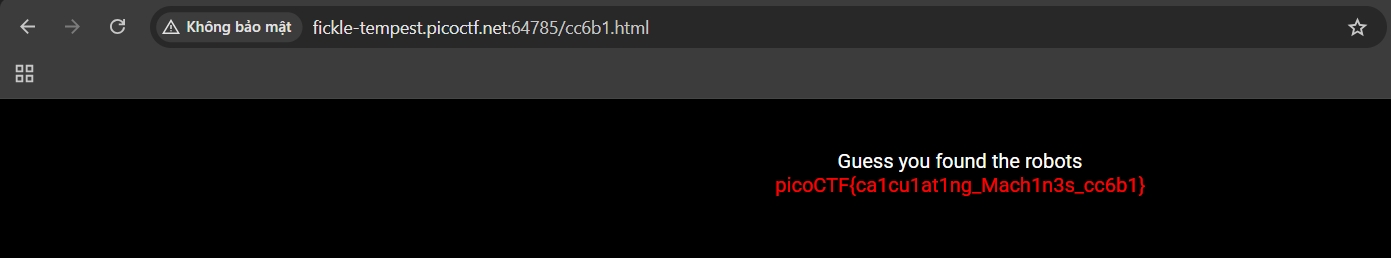
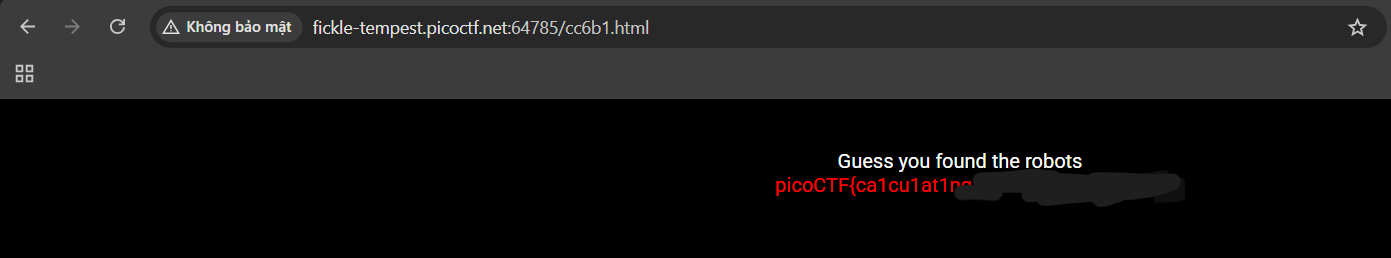
update file lỗi

Changed region(s): [[0.6801, 0.6512, 0.8656, 0.8062]]

diff --git a/Reverse Engineering/asm2/README.md b/Reverse Engineering/asm2/README.md
@@ -1,43 +1,62 @@
 ### Bài toán
 - Description
-    - What does asm1(0x2ff) return? Submit the flag as a hexadecimal value (starting with '0x'). NOTE: Your submission for this question will NOT be in the normal flag format. Source
+    - What integer does this program print?
+Flag format: picoCTF{XXXXXXXX} -> (hex, lowercase, no 0x, and 32 bits. ex. 5614267 would be picoCTF{0055aabb})
+Use arguments a and b: 2593949075 and 2233560849
+File: chall.S
 
 ### Giải
-- Code:
+- Cách 1: phân tích
+    - Trong ARM64, khi gọi hàm main(argc, argv), các tham số từ dòng lệnh sẽ được xử lý:
+        - Đoạn code lấy argv[1] (đối số thứ nhất) truyền vào atoi để chuyển thành số nguyên, lưu vào w19.
+        - Tiếp theo lấy argv[2] (đối số thứ hai) truyền vào atoi, kết quả trả về nằm ở w0.
+        - Sau đó, nó chuẩn bị gọi hàm func1:
+            - mov w1, w0: Gán giá trị b vào thanh ghi w1.
+            - mov w0, w19: Gán giá trị a vào thanh ghi w0.
+            - bl func1: Gọi hàm func1(a, b).
+    - Phân tích hàm func1:
+    ```
+    func1:
+        sub     sp, sp, #16     // Tạo không gian stack
+        str     w0, [sp, 12]    // Lưu a (2593949075) vào stack
+        str     w1, [sp, 8]     // Lưu b (2233560849) vào stack
+        
+        ldr     w1, [sp, 12]    // Load lại a vào w1
+        ldr     w0, [sp, 8]     // Load lại b vào w0
+        
+        cmp     w1, w0          // So sánh a và b (2593949075 và 2233560849)
+        bls     .L2             // Nếu a <= b (Branch if Lower or Same), nhảy đến .L2
+        
+        ldr     w0, [sp, 12]    // Nếu a > b: Load a vào w0 để trả về
+        b       .L3             // Nhảy đến kết thúc
+        
+    .L2:
+        ldr     w0, [sp, 8]     // Nếu a <= b: Load b vào w0 để trả về
+        
+    .L3:
+        add     sp, sp, 16      // Dọn dẹp stack
+        ret                     // Trả về giá trị trong w0
+    ```
+    - Kết luận logic của hàm: Hàm này đơn giản là so sánh hai số và trả về số lớn hơn => func1 trả về 2593949075 chuyển sang hex (no 0x) thành 9a9c8593 => FLAG
+- Cách 2: chạy chương trình = qemu
 ```
-asm1:
-        <+0>:   endbr32 
-        <+4>:   push   ebp
-        <+5>:   mov    ebp,esp
-        <+7>:   cmp    DWORD PTR [ebp+0x8],0x753
-        <+14>:  jg     0x11d6 <asm1+41>
-        <+16>:  cmp    DWORD PTR [ebp+0x8],0x5af
-        <+23>:  jne    0x11ce <asm1+33>
-        <+25>:  mov    eax,DWORD PTR [ebp+0x8]
-        <+28>:  add    eax,0x7
-        <+31>:  jmp    0x11ed <asm1+64>
-        <+33>:  mov    eax,DWORD PTR [ebp+0x8]
-        <+36>:  sub    eax,0x7
-        <+39>:  jmp    0x11ed <asm1+64>
-        <+41>:  cmp    DWORD PTR [ebp+0x8],0x907
-        <+48>:  jne    0x11e7 <asm1+58>
-        <+50>:  mov    eax,DWORD PTR [ebp+0x8]
-        <+53>:  sub    eax,0x7
-        <+56>:  jmp    0x11ed <asm1+64>
-        <+58>:  mov    eax,DWORD PTR [ebp+0x8]
-        <+61>:  add    eax,0x7
-        <+64>:  pop    ebp
-        <+65>:  ret    
+┌──(kali㉿kali)-[/mnt/hgfs/picoCTF-writeups/Reverse Engineering/ARMssembly 0]
+└─$ # 1. Biên dịch lại với cờ -static
+aarch64-linux-gnu-gcc chall.S -o chall_run -static
+
+# 2. Chạy lại bằng QEMU
+qemu-aarch64 ./chall_run 2593949075 2233560849
+Result: 2593949075
+                                                                                           
+                                                                                                                                                                                    
+┌──(kali㉿kali)-[/mnt/hgfs/picoCTF-writeups/Reverse Engineering/ARMssembly 0]
+└─$ python3 -c "print(f'{2593949075:08x}')"
+9a9c8593
+
 ```
-- Trong x86 32-bit, tham số đầu tiên truyền vào hàm nằm ở vị trí [ebp+0x8] => [ebp+0x8] = 0x2ff
-- So sánh lần 1 ở <+7>, <+14>:
-    - So sánh 0x2ff và 0x753 do 0x2ff < 0x753 nên không nhảy (jg - (Jump if Greater - Nhảy nếu lớn hơn))
-    - Đi tiếp xuống <+16>
-- So sánh lần 2 ở <+16> và <+23>:
-    - So sánh 0x2ff với 0x5af do 0x2ff != 0x5af điều kiện jne (Jump if Not Equal - Nhảy nếu không bằng) thỏa mãn.
-    - Nhảy tới <+33>
-- Thực hiện phép toán tại <+33>
-    - Đưa giá trị 0x2ff vào thanh ghi eax.
-    - Thực hiện: eax = eax - 0x7.
-    - Tính toán: 0x2ff - 0x7 = 0x2f8.
-    - Kết quả: Nhảy tới <+64> để kết thúc hàm.
+### Note
+- QEMU (viết tắt của Quick Emulator) là một phần mềm mô phỏng và ảo hóa mã nguồn mở cực kỳ mạnh mẽ. Nó cho phép tôi chạy một hệ điều hành hoặc một chương trình được thiết kế cho kiến trúc máy tính này (ví dụ: ARM) ngay trên một máy tính có kiến trúc khác (ví dụ: x86/Intel của tôi).
+- Hỗ trợ:
+    - Phân tích mã độc (Malware Analysis): tôi có thể chạy các mẫu virus dành cho các thiết bị IoT (thường dùng chip ARM hoặc MIPS) trong một môi trường bị cô lập hoàn toàn để xem nó làm gì.
+    - Reverse Engineering: Như bài tập tôi vừa làm, QEMU giúp thực thi các file binary của router, camera, hoặc thiết bị nhúng ngay trên laptop của mình để debug.
+    - Hỗ trợ Debug cực tốt: QEMU có tích hợp sẵn GDB server. tôi có thể dùng GDB trên máy thật để "step through" (chạy từng dòng) mã nguồn của một chương trình ARM đang chạy bên trong QEMU.

diff --git a/Cryptography/basic-mod2/basic-mod2.md b/Cryptography/basic-mod2/basic-mod2.md
@@ -1,0 +1,48 @@
+### Bài toán
+- Description
+    - A new modular challenge!
+Download the message here.
+Take each number mod 41 and find the modular inverse for the result. Then map to the following character set: 1-26 are the alphabet, 27-36 are the decimal digits, and 37 is an underscore.
+Wrap your decrypted message in the picoCTF flag format (i.e. picoCTF{decrypted_message})
+
+### Giải
+- B1: Tính x = n (mod 41)
+- B2: tìm inv = x^-1 (mod 41) (sử dụng hàm pow trong python)
+- Ánh xạ: 1...26 -> A...Z ; 27...36->0...9 ; 37->_(underscore)
+- python:
+```
+def map_char(n):
+    if 1 <= n <= 26:
+        return chr(ord('A') + n - 1)
+    elif 27 <= n <= 36:
+        return chr(ord('0') + n - 27)
+    elif n == 37:
+        return '_'
+    return '?'
+
+# Đọc dữ liệu trực tiếp từ file message.txt
+try:
+    with open('message.txt', 'r') as f:
+        # Tách các số dựa trên khoảng trắng và chuyển sang kiểu int
+        numbers = [int(x) for x in f.read().split()]
+    
+    decrypted = ""
+    for num in numbers:
+        # Bước 1: Mod 41
+        x = num % 41
+        
+        # Bước 2: Tìm nghịch đảo modulo 41
+        # Sử dụng pow(x, -1, 41) - cực kỳ nhanh và chuẩn
+        try:
+            inv = pow(x, -1, 41)
+            # Bước 3: Ánh xạ sang ký tự
+            decrypted += map_char(inv)
+        except ValueError:
+            # Nếu x không có nghịch đảo (ví dụ x=0)
+            decrypted += '?'
+
+    print(f"picoCTF{{{decrypted}}}")
+
+except FileNotFoundError:
+    print("Lỗi: Không tìm thấy file message.txt trong thư mục này!")
+```

diff --git a/Forensics/Wireshark doo dooo do doo/README.md b/Forensics/Wireshark doo dooo do doo/README.md
@@ -1,11 +1,14 @@
-### Bài toán
+# Bài toán
 - Description
-    - A new modular challenge!
-Download the message here.
-Take each number mod 41 and find the modular inverse for the result. Then map to the following character set: 1-26 are the alphabet, 27-36 are the decimal digits, and 37 is an underscore.
-Wrap your decrypted message in the picoCTF flag format (i.e. picoCTF{decrypted_message})
+    - Can you find the flag?
+shark1.pcapng
 
-### Giải
-- 
-### Note
-- 
+# Giải
+- Dùng bộ lọc tcp.stream eq -> lọc sơ từng stream nhìn nhanh thì thấy stream 5 có chứa phản hồi HTTP 200 OK 
+- Chuột phải vào bất kỳ gói tin nào hiện ra sau khi lọc -> Chọn Follow -> TCP Stream -> một cửa sổ mới sẽ hiện ra hiển thị toàn bộ nội dung trao đổi giữa Client và Server.
+- Thấy Gur synt vf cvpbPGS{c33xno00_1_f33_h_qrnqorrs}
+- Chuỗi trên sử dụng mã hóa ROT13 -> decode => FLAG
+# Note
+- Tìm stream chứa phản hồi HTTP 200 OK
+- Dấu hiệu nhận biết ROT13: Khi thấy cụm cvpbPGS, hãy nhớ ngay nó là picoCTF. Chữ c cách p 13 vị trí, v cách i 13 vị trí... Đây là "mẹo" để nhận diện nhanh loại mã hóa này.
+- Có thể dùng lệnh strings shark1.pcapng | grep "cvpbPGS" để tìm nhanh chuỗi mã hóa mà không cần mở giao diện đồ họa.

diff --git a/Cryptography/Mod 26/Mod 26.md b/Cryptography/Mod 26/Mod 26.md
@@ -1,0 +1,18 @@
+### Bài toán
+- Description
+    - Cryptography can be easy, do you know what ROT13 is?
+        values.txt
+
+### Giải
+- Vì bài này dùng ROT13, mỗi chữ cái được dịch đi 13 vị trí. Chúng ta sẽ dùng lệnh tr (translate) để dịch ngược lại: 
+```
+cat values.txt | tr 'A-Za-z' 'N-ZA-Mn-za-m'
+```
+- Với:
+    - A-Z trở thành N-ZA-M: Chữ A (vị trí 1) dịch 13 thành N (vị trí 14), và cứ thế xoay vòng.
+    - a-z trở thành n-za-m: Tương tự cho chữ thường.
+### Note
+- ROT13 (viết tắt của "rotate by 13 places"). Đây là một dạng đặc biệt của mật mã Caesar:
+    - Bảng chữ cái tiếng Anh có 26 chữ cái.
+    - ROT13 sẽ dịch chuyển mỗi chữ cái đi 13 vị trí.
+    - Vì 13=26/2, nên nếu bạn thực hiện ROT13 hai lần trên cùng một văn bản, bạn sẽ nhận lại văn bản gốc ban đầu (13+13=26 = 0 (mod 26))

diff --git a/Reverse Engineering/unpackme.py/README.md b/Reverse Engineering/unpackme.py/README.md
@@ -1,11 +1,15 @@
 ### Bài toán
 - Description
-    - A new modular challenge!
-Download the message here.
-Take each number mod 41 and find the modular inverse for the result. Then map to the following character set: 1-26 are the alphabet, 27-36 are the decimal digits, and 37 is an underscore.
-Wrap your decrypted message in the picoCTF flag format (i.e. picoCTF{decrypted_message})
+    - Can you get the flag?
+Reverse engineer this Python program.
 
 ### Giải
-- 
+- Phân tích mã nguồn:
+    - Cơ chế: Chương trình sử dụng một khóa tĩnh (key_str) để giải mã một đoạn dữ liệu (payload) đã được mã hóa bằng Fernet. Sau khi giải mã thành công, kết quả (plain) sẽ được thực thi trực tiếp bằng lệnh exec().
+    - Khóa (Key): correctstaplecorrectstaplecorrec (được chuyển sang định dạng Base64 để phù hợp với yêu cầu của Fernet).
+    - Lệnh thực thi: Lệnh exec(plain.decode()) cho thấy Flag hoặc logic in Flag nằm ngay bên trong dữ liệu bị mã hóa.
+- Thay dòng exec(plain.decode()) bằng: print(plain.decode())
 ### Note
-- 
+- Mã hóa Fernet: Đây là một tiêu chuẩn mã hóa đối xứng sử dụng thuật toán AES trong chế độ CBC và HMAC để xác thực dữ liệu.
+- Nguy hiểm của lệnh exec(): Trong Reverse Engineering, lệnh exec() thường được dùng để che giấu logic thực tế (obfuscation). Việc thay thế exec() bằng print() là kỹ thuật cơ bản để "lột trần" lớp vỏ bọc này.
+- Xử lý Base64: Thư viện Fernet yêu cầu khóa phải được định dạng Base64 (32 bytes). Việc chuyển đổi key_str.encode() sang Base64 là bước chuẩn bị bắt buộc.

diff --git a/Web Exploitation/Most Cookies/README.md b/Web Exploitation/Most Cookies/README.md
@@ -1,9 +1,7 @@
 ### Bài toán
 - Description
-    - Alright, enough of using my own encryption. Flask session cookies should be plenty secure!
-http://wily-courier.picoctf.net:60974/08/
+
 
 ### Giải
-- 
+
 ### Note
-- 